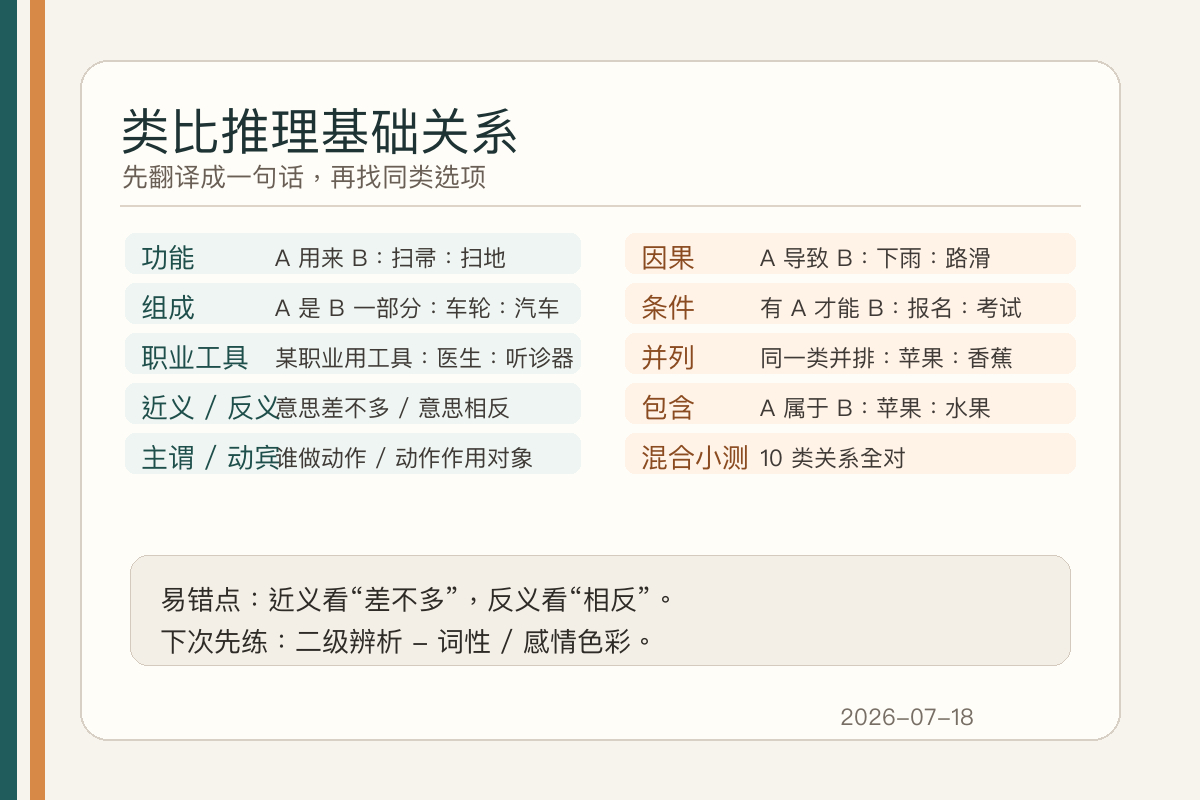
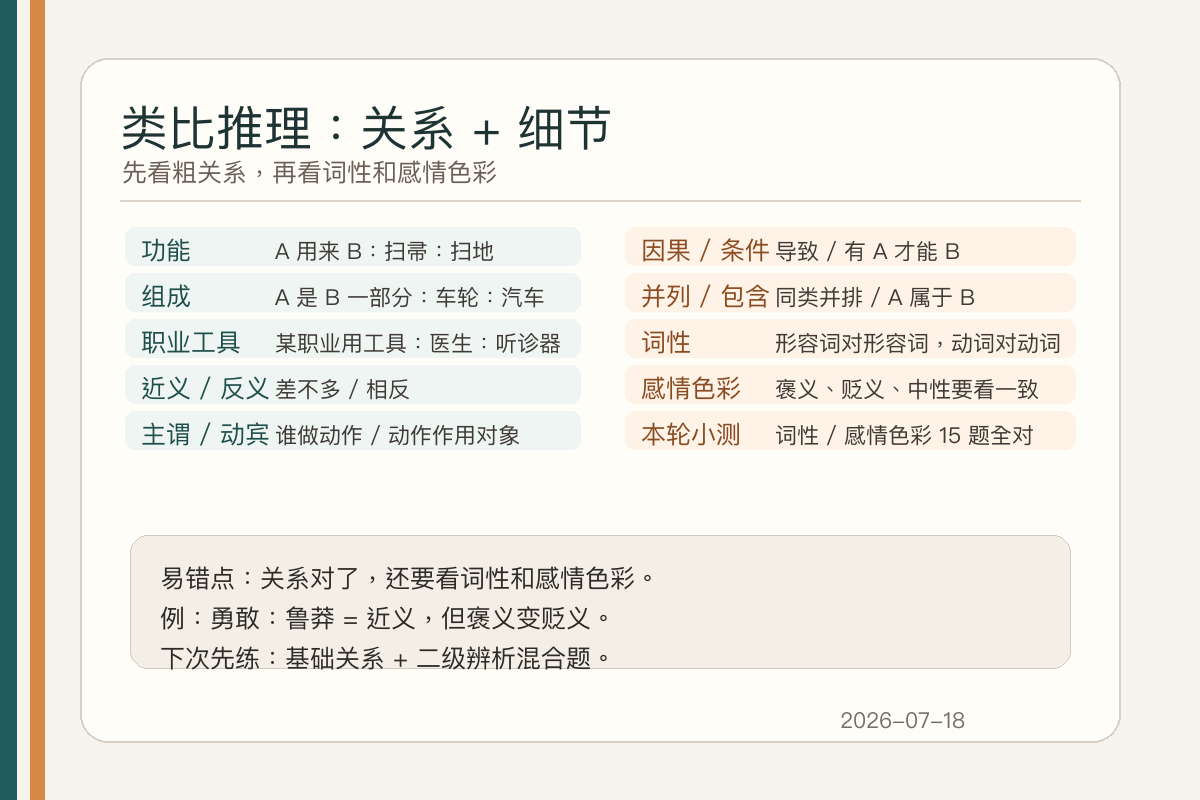
docs(study): 更新判断推理学习记录

diff --git a/.study/mistakes/行测错题.md b/.study/mistakes/行测错题.md
@@ -57,7 +57,42 @@
 
 ### 2026-07-18 - 类比推理入门
 
-- 题型：关系判断 - 功能、组成、职业工具、近义、反义、主谓、动宾、因果、条件、并列、包含
-- 错因：曾把“寒冷：炎热”误判成近义关系，实际二者意思相反，是反义关系；后续因果、条件、并列、包含和 10 类混合小测暂无新增错题。
-- 正确规则：近义看“意思差不多”，反义看“意思相反”；因果看“A 导致 B”，条件看“有 A 才能 B”；并列看“同一类并排”，包含看“A 属于 B”。类比题先把题干两个词翻译成一句话，再看选项能不能套同一句话。
-- 下次先做：先判断题干粗关系，再看细节是否一致；不要只凭词语熟悉程度选答案。
+- 题型：关系判断 - 功能、组成、职业工具、近义、反义、主谓、动宾、因果、条件、并列、包含；二级辨析 - 词性 / 感情色彩
+- 错因：曾把“寒冷：炎热”误判成近义关系，实际二者意思相反，是反义关系；后续因果、条件、并列、包含、10 类混合小测和词性 / 感情色彩辨析暂无新增错题。
+- 正确规则：近义看“意思差不多”，反义看“意思相反”；因果看“A 导致 B”，条件看“有 A 才能 B”；并列看“同一类并排”，包含看“A 属于 B”。关系相同时，再看词性和感情色彩是否一致。
+- 下次先做：先判断题干粗关系，再看词性、感情色彩等细节；不要只凭词语熟悉程度选答案。
+
+### 2026-07-19 - 类比推理综合巩固
+
+- 题型：基础关系 + 二级辨析混合题
+- 错因：今日 25 题全对，暂无新增错题；后续要防止做题太快，只看粗关系，漏掉词性、感情色彩和前后顺序。
+- 正确规则：先判断粗关系，再看第二层细节；条件关系看“有 A 才能 B”，因果关系看“A 导致 B”；组成关系看“是不是一部分”，包含关系看“是不是属于这一类”。
+- 下次先做：先用 3 秒说出题干粗关系，再检查词性、褒贬色彩和前后顺序是否一致。
+
+### 2026-07-19 - 逻辑判断 - 削弱加强入门
+
+- 题型：找结论、找论据、加强、削弱、选项力度比较
+- 错因：本轮 67 题全对，暂无错题；后续要防止只看选项“有点相关”，忽略力度强弱。
+- 正确规则：加强是让论据和结论更连得上；削弱是让结论站不稳。常见削弱方式有另有原因、样本不准、因果倒置、断开联系；常见加强方式是建立联系、排除其他原因。
+- 下次先做：先圈结论关键词，再比较选项是否直接打到关键词；只讲背景、个别人、形式细节的选项通常较弱。
+
+### 2026-07-20 - 逻辑判断 - 前提假设入门
+
+- 题型：必要前提 - 排除别的原因 / 两组起点差不多
+- 错因：本轮 20 题全对，暂无错题；后续要防止把“看起来相关”的措施优点当成必要前提。
+- 正确规则：前提假设是结论成立必须补上的条件。数量变化推出态度、意愿、效果变好时，要排除别的原因；两组对比推出某方法有效时，要保证两组起点差不多。
+- 下次先做：先找结论和论据，再问“如果这个选项不成立，结论会不会立刻站不稳”。
+
+### 2026-07-20 - 逻辑判断 - 前提假设进阶 - 否定代入法
+
+- 题型：必要前提 - 否定代入法
+- 错因：本轮 36 题全对，暂无错题；后续要防止把“功能好用、页面美观、大家知道”等普通有利条件当成必要前提。
+- 正确规则：把选项反过来看。如果反过来后结论立刻站不稳，这个选项更像必要前提。结果变好先排除别的原因；数据变好先排除标准、难度、口径、任务量变化；两组对比先看起点是否相近。
+- 下次先做：先找结论和论据，再否定选项；问自己“没有它，结论是不是马上倒掉”。
+
+### 2026-07-21 - 逻辑判断 - 前提假设综合巩固
+
+- 题型：必要前提 vs 普通加强项
+- 错因：本轮 50 题全对，暂无错题；后续要防止把“排除别的原因”机械套到所有题上。
+- 正确规则：必要前提是结论成立离不开的条件。措施推出后数据变好，要先排除同期别的原因；两组对比推出方法有效，要先看两组起点是否差不多。页面好看、态度好、大家支持、功能方便，多数只是普通加强项。
+- 下次先做：先找结论和论据，再问“如果这个选项不成立，结论会不会马上倒掉”。

diff --git a/.study/dashboard.md b/.study/dashboard.md
@@ -1,6 +1,6 @@
 # 学习第二大脑总览
 
-更新时间：2026-07-18
+更新时间：2026-07-21
 
 ## 当前阶段
 
@@ -19,10 +19,10 @@
 
 ## 最近一次学习
 
-- 日期：2026-07-18
+- 日期：2026-07-21
 - 模块：行测
-- 考点：判断推理 - 类比推理基础关系综合
-- 状态：已理解
+- 考点：判断推理 - 逻辑判断 - 前提假设综合巩固
+- 状态：已掌握
 
 ## 当前待办
 
@@ -57,6 +57,12 @@
 - [x] 继续练行测 - 定义判断限定词识别
 - [x] 继续练行测 - 定义判断反向问法
 - [x] 继续学行测 - 类比推理入门
+- [x] 继续练行测 - 类比推理综合巩固
+- [x] 继续学行测 - 逻辑判断 - 削弱加强入门
+- [x] 继续学行测 - 逻辑判断 - 前提假设入门
+- [x] 继续练行测 - 逻辑判断 - 前提假设进阶 - 否定代入法
+- [x] 继续练行测 - 逻辑判断 - 前提假设综合巩固
+- [ ] 继续学行测 - 逻辑判断 - 真假推理入门
 - [ ] 继续学资料分析 - 综合分析
 - [ ] 继续练资料分析 - 速算与估算
 - [ ] 建立每周一次模块小测
@@ -84,15 +90,17 @@
 - 行测 - 图形推理数量规律 - 数线：已理解直线、曲线、总线条数和笔画数；注意完整圆是 1 笔，不是 2 笔。
 - 行测 - 图形推理数量规律 - 数面：已理解封闭区域判断；注意开口图形不算面，大图套小图要数小图里面和小图外面。
 - 行测 - 定义判断：已理解关键词、多条件、限定词和反向问法；注意“不符合 / 不属于 / 错误的是”要选不满足定义的选项。
-- 行测 - 类比推理：已理解功能、组成、职业工具、近义、反义、主谓、动宾、因果、条件、并列、包含等基础关系；注意近义和反义不要看反，先把两个词翻译成一句话。
+- 行测 - 类比推理：已掌握基础关系和二级辨析混合题；注意别做太快，粗关系相同后还要看词性、感情色彩和前后顺序。
+- 行测 - 逻辑判断 - 削弱加强：已理解找结论、找论据、加强和削弱的基础入口；注意选项力度比较，优先选直接打结论关键词的选项。
+- 行测 - 逻辑判断 - 前提假设：已掌握“排除别的原因”“两组起点差不多”“否定代入法”和“必要前提 vs 普通加强项”；注意别把每题都机械套成“另有原因”，两组对比题还要看起点。
 
 ## 下次建议
 
-建议继续练：行测 - 判断推理 - 类比推理二级辨析入门。
+建议继续学：行测 - 判断推理 - 逻辑判断 - 真假推理入门。
 
-原因：今天已完成 10 类基础关系混合小测，基础入口已经能分清；下一步适合练“词性 / 感情色彩”这种细节辨析。
+原因：今天完成前提假设综合巩固 50 题，全对。已经能稳定区分必要前提和普通加强项。
 
-下次仍然只练一个小考点，优先练“词性 / 感情色彩”，先做短题，不急着上长题。
+下次仍然只练一个小考点，先学真假推理的基础入口：找矛盾、找反对、看限制条件。
 
 ## 每日默认安排
 

diff --git a/.study/daily/2026-07-19.md b/.study/daily/2026-07-19.md
@@ -1,0 +1,50 @@
+# 2026-07-19 学习记录
+
+## 基本信息
+
+- 模块：行测
+- 考点：判断推理 - 类比推理综合巩固 / 逻辑判断 - 削弱加强入门
+- 学习状态：类比推理已掌握；削弱加强已理解
+
+## 今日完成
+
+- 继续练类比推理综合巩固，重点是“基础关系 + 二级辨析混合题”。
+- 共完成 25 题，25 题全对。
+- 能先判断粗关系，再检查第二层细节。
+- 重点练了近义、反义、褒贬变化、职业工具、工具功能、组成、包含、并列、条件、因果、行为结果、地点人员等关系。
+- 能区分容易混的几组关系：条件关系和因果关系，组成关系和包含关系，近义关系和褒贬变化。
+- 继续学习逻辑判断 - 削弱加强入门，先练“找结论、找论据”，再练加强和削弱。
+- 完成削弱加强分项练习：另有原因、样本不准、对照实验、因果倒置、建立联系 / 断开联系、选项力度比较、迷惑选项排除。
+- 能抓住结论关键词，比如“积极性、兴趣、责任心、能力、体验、主动性”，再判断选项是否直接打到核心。
+- 能识别数据类削弱：统计口径变了、标准放宽了、题目难度降低了、外部要求增加了，不能直接说明能力或意愿提高。
+
+## 练习情况
+
+- 共练习：92 题，其中类比推理 25 题，削弱加强 67 题
+- 错题：0 题
+- 正确率：100%
+
+## 主要错因
+
+- 今日暂无错题。
+- 后续要防止做题太快，只看粗关系，漏掉词性、感情色彩和前后顺序。
+- 削弱加强暂无错题。后续要防止只看选项“有没有关系”，要继续比较谁最直接、谁力度最强。
+
+## 主要收获
+
+- 类比推理先看粗关系：近义、反义、因果、条件、组成、包含等。
+- 粗关系相同后，再看第二层：词性是否一致、褒贬色彩是否一致、前后顺序是否一致。
+- “购票：乘车”“报名：考试”是条件关系，重点是“有 A 才能 B”。
+- “下雨：路滑”“粗心：失误”是因果关系，重点是“A 导致 B”。
+- “发动机：汽车”“屏幕：手机”是组成关系，前者是后者的一部分。
+- “手机：电器”“钢笔：文具”是包含关系，前者属于后者这一类。
+- “节俭：吝啬”“果断：武断”不是普通近义，而是意思接近但褒贬色彩不同。
+- 削弱加强先找结论和论据：结论是作者想证明的话，论据是拿来证明的事实。
+- 加强题常见做法：补上中间机制，让论据和结论连得上。
+- 削弱题常见做法：指出另有原因、样本不准、因果倒置，或拆掉论据和结论之间的联系。
+- 选项力度比较时，优先选直接打结论关键词的选项；只讲时间、地点、颜色、规则、个别人感受的选项通常较弱。
+
+## 下次建议
+
+- 继续学行测 - 判断推理 - 逻辑判断 - 前提假设入门。
+- 下一次只练“题干缺了什么条件”，先从简单句子开始，不急着做长材料题。

diff --git a/.study/daily/2026-07-20.md b/.study/daily/2026-07-20.md
@@ -1,0 +1,45 @@
+# 2026-07-20 学习记录
+
+## 基本信息
+
+- 模块：行测
+- 考点：判断推理 - 逻辑判断 - 前提假设入门 / 前提假设进阶 - 否定代入法
+- 学习状态：已理解
+
+## 今日完成
+
+- 学习前提假设题的基础入口：先找结论，再找论据，最后问“题干缺了什么条件”。
+- 重点练了两类常见缺口：
+  - 数量变化推出态度、意愿、效果变好时，要排除别的原因。
+  - 两组对比推出某方法有效时，要保证两组起点差不多。
+- 能区分“必须假设”和“看起来有帮助但不是关键”的选项。
+- 能识别常见迷惑项，比如活动质量、环境条件、功能细节、工作人员安排等。
+- 继续练前提假设进阶，重点是“否定代入法”：把选项反过来看，判断结论会不会立刻站不稳。
+- 能稳定识别三类必要前提：结果变好时排除同期发生的别的原因；数据变好时排除标准、难度、口径、任务量变化；两组对比时保证两组起点差不多。
+- 能区分“功能好用”和“结论必须依赖的前提”。前者常是干扰项，后者一否定，结论就倒。
+
+## 练习情况
+
+- 共练习：56 题
+- 错题：0 题
+- 正确率：100%
+
+## 主要错因
+
+- 今日暂无错题。
+- 后续要防止看到选项和题干有关就选，要先判断它是不是结论成立必须依赖的条件。
+- 本轮否定代入法 36 题全对。后续要继续防止把“措施本身很好”当作必要前提。
+
+## 主要收获
+
+- 前提假设题的本质是补上题干没明说、但结论必须依赖的一步。
+- 看到“次数增加、投诉下降、办件量增加、剩饭减少”等数量变化，不要马上相信结论，要先问有没有别的原因。
+- 看到“参加某活动的人比没参加的人表现更好”，不要马上认为活动有效，要先看两组人原本水平是否差不多。
+- 迷惑项通常只是说明措施更好、更方便、更美观，但没有补上推理缺口。
+- 否定代入法的判断句：如果这个选项不成立，结论是不是马上站不住？
+- 排除别的原因的题，常见关键词是“同期没有”“不是因为”“标准没有变化”“数量没有明显增加 / 减少”。
+
+## 下次建议
+
+- 继续练行测 - 判断推理 - 逻辑判断 - 前提假设综合巩固。
+- 下一次重点练“必要前提 vs 普通加强项”：看选项是“必须有”，还是“有了更好”。

diff --git a/.study/daily/2026-07-21.md b/.study/daily/2026-07-21.md
@@ -1,0 +1,39 @@
+# 2026-07-21 学习记录
+
+## 基本信息
+
+- 模块：行测
+- 考点：判断推理 - 逻辑判断 - 前提假设综合巩固
+- 学习状态：已掌握
+
+## 今日完成
+
+- 继续练前提假设题，重点区分“必要前提”和“普通加强项”。
+- 反复练了“措施推出后，数据变好，所以措施有效”这一类题。
+- 能先找结论和论据，再判断选项是不是结论成立离不开的条件。
+- 能稳定识别“同期发生的别的原因”，比如标准放宽、难度降低、人数减少、任务量变少、价格下降、人手增加、处罚加强等。
+- 能排除常见迷惑项，比如页面美观、服务态度好、大家都知道、都愿意使用、工作人员支持等。
+
+## 练习情况
+
+- 共练习：50 题
+- 错题：0 题
+- 正确率：100%
+
+## 主要错因
+
+- 今日暂无错题。
+- 后续要防止形成机械反应：不是所有前提假设题都选“排除别的原因”，两组对比题还要看起点是否差不多。
+
+## 主要收获
+
+- 必要前提不是“有了更好”，而是“没有它，结论马上站不住”。
+- 看到“某措施推出后，某数据变好，所以措施有效”，先想有没有同期变化。
+- 数据变好时，重点排除这些干扰：统计标准变了、任务难度降了、对象数量少了、外部奖励或处罚变了、人手或资源增加了。
+- 选项里出现“都、所有、一定”时要谨慎，很多时候过于绝对，不是必要前提。
+- 普通加强项常常很顺耳，但只是在说措施本身更好，没堵住题干真正的漏洞。
+
+## 下次建议
+
+- 继续学行测 - 判断推理 - 逻辑判断 - 真假推理入门。
+- 下一次只练一个入口：先判断“谁真谁假”，再看题干限制条件，不急着做复杂组合题。

diff --git a/.study/daily/2026-07-18.md b/.study/daily/2026-07-18.md
@@ -22,10 +22,13 @@
 - 完成混合小测和易混题训练，能先判断题干关系，再找同类选项。
 - 继续补充类比推理常见关系，学完因果关系、条件关系、并列关系和包含关系。
 - 完成 10 类关系混合小测，能在功能、组成、职业工具、近义、反义、主谓、动宾、因果、条件、并列、包含中判断同类关系。
+- 学习类比推理二级辨析，重点练“词性 / 感情色彩”。
+- 能在粗关系相同的情况下，继续判断词性是否一致，比如形容词对形容词、动词对动词。
+- 能判断感情色彩是否一致，比如褒义、贬义、中性，或“褒义到贬义”的变化是否一致。
 
 ## 练习情况
 
-- 共练习：约 127 组小练习
+- 共练习：约 142 组小练习
 - 错题：1 处
 - 正确率：约 99%
 
@@ -52,8 +55,10 @@
 - 条件关系是“有 A 才能 B”，比如“报名：考试”。
 - 并列关系是“A 和 B 是同一类”，比如“苹果：香蕉”。
 - 包含关系是“A 属于 B”，比如“苹果：水果”。
+- 二级辨析先看粗关系，再看词性和感情色彩；比如“赞扬：批评”和“表扬：责备”都是反义动词。
+- 遇到“勇敢：鲁莽”“果断：武断”这类题，要注意它们意思接近，但感情色彩从褒义变成贬义。
 
 ## 下次建议
 
-- 继续练行测 - 判断推理 - 类比推理二级辨析入门。
-- 下一次只练“词性 / 感情色彩”，先判断两个词的粗关系，再看细节是否一致。
+- 继续练行测 - 判断推理 - 类比推理综合巩固。
+- 下一次只练“基础关系 + 二级辨析混合题”，先判断粗关系，再看词性、感情色彩是否一致。

diff --git a/.study/mindmaps/行测脑图.md b/.study/mindmaps/行测脑图.md
@@ -42,9 +42,17 @@
   - [已理解] 主谓关系 / 动宾关系
   - [已理解] 因果关系 / 条件关系
   - [已理解] 并列关系 / 包含关系
-  - [未学] 二级辨析 - 词性 / 感情色彩
-- [未学] 逻辑判断 - 削弱加强
-- [未学] 逻辑判断 - 前提假设
+  - [已理解] 二级辨析 - 词性 / 感情色彩
+  - [已掌握] 综合巩固 - 基础关系 + 二级辨析混合题
+- [已理解] 逻辑判断 - 削弱加强
+  - [已理解] 找结论 / 找论据
+  - [已理解] 另有原因 / 样本不准 / 因果倒置
+  - [已理解] 建立联系 / 断开联系 / 选项力度比较
+- [已掌握] 逻辑判断 - 前提假设
+  - [已理解] 排除别的原因
+  - [已理解] 两组起点差不多
+  - [已理解] 否定代入法
+  - [已掌握] 综合巩固 - 必要前提 vs 普通加强项
 - [未学] 逻辑判断 - 真假推理
 
 ## 言语理解
